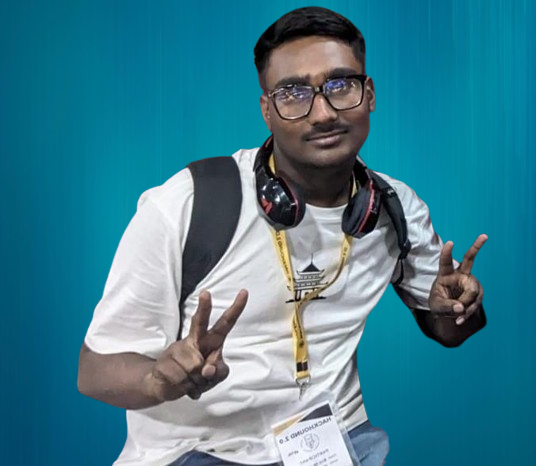
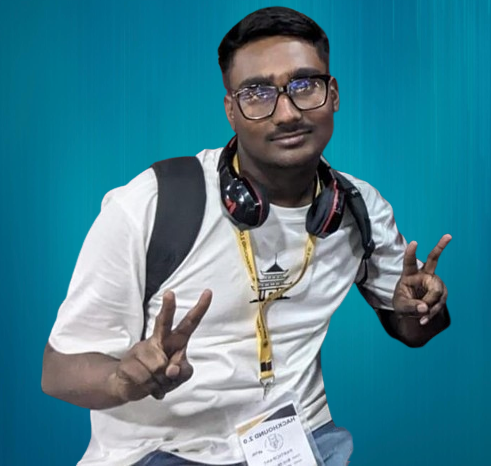
image updated

Changed region(s): [[0.0611, 0.0, 0.9165, 1.0], [0.7637, 0.6609, 0.7943, 0.691]]

diff --git a/src/components/Home.jsx b/src/components/Home.jsx
@@ -8,7 +8,7 @@ import img4 from "../assets/img4.jpg";
 import img5 from "../assets/img5.png";
 import imgs from "../assets/imgs.jpg";
 import imgy from "../assets/imgy.png";
-import imgr from "../assets/imgr.jpg";
+import imgr from "../assets/imgr.png";
 import imgv from "../assets/imgv.jpg";
 
 function Home() {
@@ -558,11 +558,11 @@ return (
               </ul>
             </div>
             <div className="text-center text-gray-500 dark:text-gray-400">
-              <img className="mx-auto mb-4 w-36 h-36 rounded-full object-fill" src={imgr} alt="Joseph Avatar" />
+              <img className="mx-auto mb-4 w-36 h-36 rounded-full object-cover" src={imgr} alt="Joseph Avatar" />
               <h3 className="mb-1 text-2xl font-bold tracking-tight text-gray-900 dark:text-white">
-                <a href="#">Raj Singh</a>
+                <a href="#">Radhika Saxena</a>
               </h3>
-              <p>AR/VR</p>
+              <p>Machine Learning</p>
               <ul className="flex justify-center mt-4 space-x-4">
                 <li>
                   <a href="#" className="text-[#39569c] hover:text-gray-900 dark:hover:text-white">
